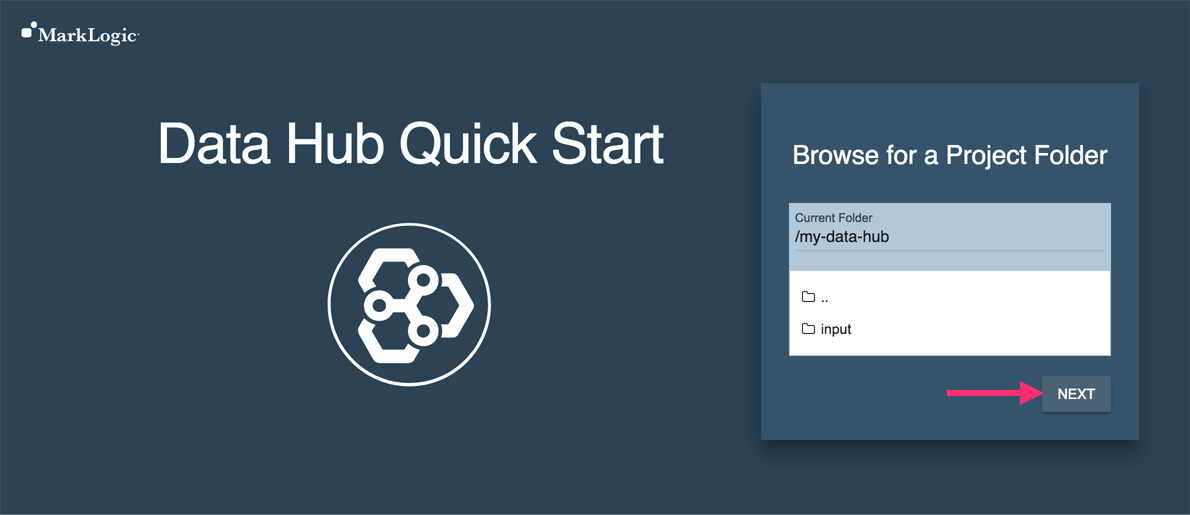
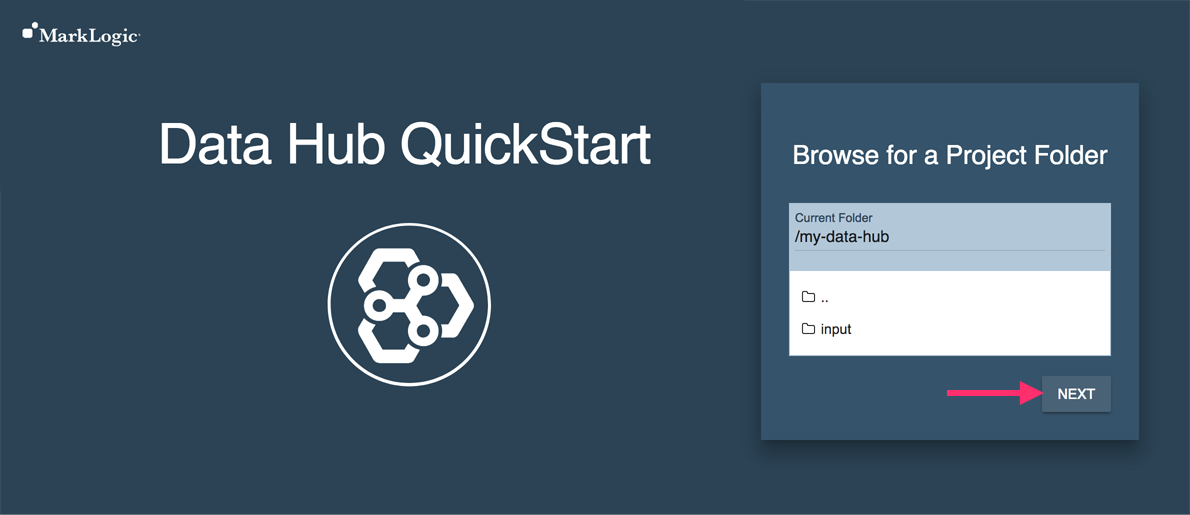
DHFPROD-646 misc 3.x docs fixes
Fix QuickStart wording on install screens.
Some content reorg, typo fixes.

Changed region(s): [[0.1244, 0.2175, 0.5597, 0.3417], [0.0311, 0.0621, 0.1244, 0.0932]]

diff --git a/_pages/tutorial/3x/harmonizing-product-data.md b/_pages/tutorial/3x/harmonizing-product-data.md
@@ -31,7 +31,11 @@ Harmonize flows were designed to be run as batch jobs. To support this batch run
 
 If you are not interested in running harmonization flows as batches we do [provide ways](../../faqs/#how-can-i-run-a-harmonize-flow-immediately-for-1-document) for running them on-demand for single items.
 
+This diagram shows the steps in a harmonize flow:
+
 ![Harmonize Flow Overview]({{site.baseurl}}/images/3x/harmonizing-product-data/harmonize-flow-diagram.png)
+
+Here is a summary of the plugins involved:
 
 - **collector**: returns a list of strings to operate on
 - **content**: returns data to put into the content section of the envelope
@@ -50,13 +54,13 @@ If you are not interested in running harmonization flows as batches we do [provi
 
 This collector code is returning a list of URIs, one for every product document in the staging database. We are using URIs because we intend to create one harmonized document for every ingested staging document.
 
-The code you see is using [cts.uris](https://docs.marklogic.com/cts.uris) to get values from the URI lexicon. We pass in [cts.collectionQuery](https://docs.marklogic.com/cts.collectionQuery) as the third parameter to constrain our results to only the URIs for documents in the **Product** collection. We are using `options.entity` as the parameter. The Data Hub Framework passes in options from Java to the plugins.
-
-The default options passed in to the plugin are:
+The default options passed in to the collector plugin are:
 
 - **entity**: the name of the entity this plugin belongs to
 - **flow**: the name of the flow this plugin belongs to
 - **flowType**: the type of flow being run (input or harmonize)
+
+The code you see is using [cts.uris](https://docs.marklogic.com/cts.uris) to get values from the URI lexicon. We pass in [cts.collectionQuery](https://docs.marklogic.com/cts.collectionQuery) as the third parameter to constrain our results to only the URIs for documents in the **Product** collection. We are using `options.entity` as the parameter. The Data Hub Framework passes in options from Java to the plugins.
 
 <div class="embed-git lang-js" href="//raw.githubusercontent.com/marklogic-community/marklogic-data-hub/develop/examples/online-store/plugins/entities/Product/harmonize/Harmonize Products/collector/collector.sjs"></div>
 

diff --git a/_pages/project/project.md b/_pages/project/project.md
@@ -1,10 +1,8 @@
 ---
 layout: inner
-title: Using the DHF from Java
+title: Create a Data Hub Project
 permalink: /project/
 ---
-
-# Creating a Data Hub Project
 
 Before you can get started you need to create a Data Hub Project. You can do this via the QuickStart UI or the Gradle plugin.
 
